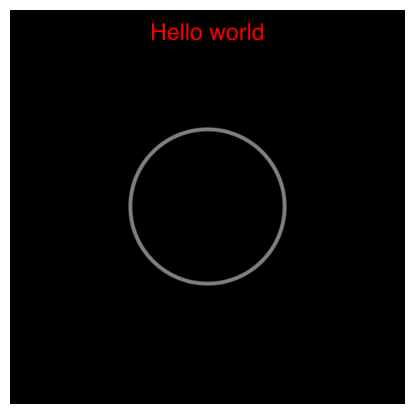
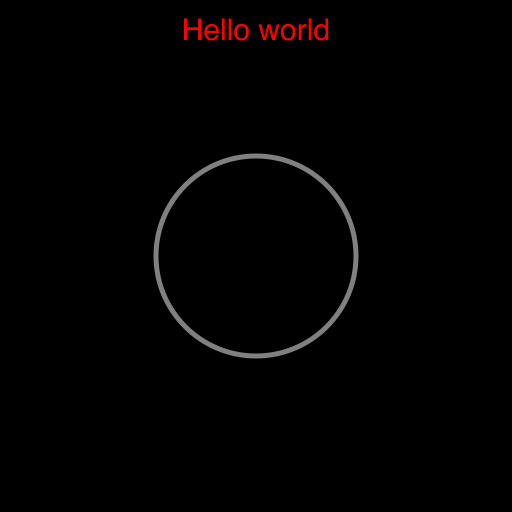
Loading with dialogs

Changed region(s): [[0.0, 0.0, 1.0, 1.0], [0.2899, 0.2899, 0.7246, 0.7246]]

diff --git a/py5canvas/sketch_params.py b/py5canvas/sketch_params.py
@@ -71,6 +71,15 @@ def fetch_params(gui_params):
             params[key] = val
     return params
 
+def filter_params(params):
+    res = {}
+    for key, val in params.items():
+        if isinstance(val, dict):
+            res[key] = filter_params(val)
+        else:
+            if not callable(val):
+                res[key] = val
+    return res
 
 class SketchParams:
     ''' Handle the parameters of a sketch.
@@ -98,7 +107,7 @@ class SketchParams:
         print('Saving parameters to ' + path)
         print(self.params)
         with open(path, 'w') as fp:
-            json.dump(self.params, fp, indent=4, sort_keys=False, cls=encoder)
+            json.dump(filter_params(self.params), fp, indent=4, sort_keys=False, cls=encoder)
 
     def load(self, path='', encoder=NumpyEncoder):
         if not path:
@@ -270,7 +279,10 @@ if imgui is not None:
                         changed = False
                         if param_type == 'int':
                             changed, params[key] = imgui.input_int(name, params[key])
-                        if param_type == 'text':
+                        elif param_type == 'button':
+                            if imgui.button(name):
+                                val()
+                        elif param_type == 'text':
                             buf_length = 1024
                             if 'buf_length' in opts:
                                 buf_length = opts['buf_length']
@@ -278,13 +290,13 @@ if imgui is not None:
                                 changed, params[key] = imgui.input_text_multiline(name, params[key], buf_length)
                             else:
                                 changed, params[key] = imgui.input_text(name, params[key], buf_length)
-                        if param_type == 'selection':
+                        elif param_type == 'selection':
                             changed, params[key] = imgui.combo(name, params[key], opts['selection'])
-                        if param_type == 'float':
+                        elif param_type == 'float':
                             changed, params[key] = imgui.input_float(name, params[key])
-                        if param_type == 'float_slider':
+                        elif param_type == 'float_slider':
                             changed, params[key] = imgui.slider_float(name, params[key], opts['min'], opts['max'])
-                        if param_type == 'int_slider':
+                        elif param_type == 'int_slider':
                             changed, params[key] = imgui.slider_int(name, params[key], opts['min'], opts['max'])
                         elif param_type == 'checkbox':
                             changed, params[key] = imgui.checkbox(name, params[key])
@@ -301,18 +313,43 @@ if imgui is not None:
                         print("Key mismatch for parameter", name)
                         print(e)
 
+        def toolbar(self, sketch):
+            self.sketch = sketch
+            # Top bar
+            imgui.set_next_window_size(sketch.window_width, sketch.toolbar_height)
+            imgui.set_next_window_position(0, 0)
+            imgui.begin("Toolbar", True, (imgui.WINDOW_NO_RESIZE |
+                                            imgui.WINDOW_NO_TITLE_BAR |
+                                            imgui.WINDOW_NO_SAVED_SETTINGS |
+                                            imgui.WINDOW_NO_SCROLLBAR))
+
+            if imgui.button('Load sketch...'):
+                path = sketch.open_file_dialog('py')
+                if path:
+                    sketch.load(path)
+            imgui.same_line()
+            imgui.push_style_color(imgui.COLOR_TEXT, 0.5, 0.5, 0.5)
+            script_name = os.path.basename(sketch.path)
+            imgui.text('Sketch: ' + script_name)
+            imgui.pop_style_color(1)
+            imgui.end()
+
         def from_params(self, sketch):
             self.sketch = sketch
             self.changed = set()
-            imgui.set_next_window_size(self.width, sketch.height)
-            imgui.set_next_window_position(sketch.window_width - self.width, 0)
-            imgui.begin("Parameters", True, imgui.WINDOW_NO_RESIZE | imgui.WINDOW_NO_TITLE_BAR)
-            script_name = os.path.basename(sketch.path)
-            imgui.push_style_color(imgui.COLOR_TEXT, 0.5, 0.5, 0.5)
-            imgui.text('Sketch: ' + script_name)
-            imgui.pop_style_color(1)
-            if sketch.params is not None:
-                self.show_params(sketch.params.params, sketch.params.gui_params)
+
+
+            imgui.set_next_window_size(self.width, sketch.window_height - sketch.toolbar_height)
+            imgui.set_next_window_position(sketch.window_width - self.width, sketch.toolbar_height)
+            imgui.begin("Py5sketch", True, (imgui.WINDOW_NO_RESIZE |
+                                            imgui.WINDOW_NO_TITLE_BAR |
+                                            imgui.WINDOW_NO_SAVED_SETTINGS))
+            imgui.begin_child("Sketch")
+
+            if imgui.collapsing_header("Parameters", None, imgui.TREE_NODE_DEFAULT_OPEN)[0]:
+                if sketch.params is not None:
+                    self.show_params(sketch.params.params, sketch.params.gui_params)
+            imgui.end_child()
             imgui.end()
 
             # imgui.begin("Style editor")

diff --git a/py5canvas/run_sketch.py b/py5canvas/run_sketch.py
@@ -15,6 +15,9 @@ from py5canvas import canvas, sketch_params
 import traceback
 import importlib
 import threading
+import tkinter
+#master = tkinter.Tk()
+#from tkinter import filedialog
 
 # Optionally import imgui
 imgui_loader = importlib.find_loader('imgui')
@@ -29,9 +32,6 @@ if edict_loader is not None:
     from easydict import EasyDict as edict
 else:
     edict = None
-
-args = lambda: None
-args.program = './../examples/basic_animation.py'
 
 
 class perf_timer:
@@ -89,6 +89,7 @@ def wrap_canvas_method(sketch, func):
         return getattr(sketch.canvas, func)(*args, **kwargs)
     return wrapper
 
+
 class Sketch:
     """Contains our canvas and the pyglet window.
     Takes care of window management and copying the canvas data to the appropriate pyglet image"""
@@ -103,7 +104,7 @@ class Sketch:
         self.var_context = {}
         self.params = None
         self.gui = None
-
+        self.toolbar_height = 30
         self.create_canvas(self.width, self.height)
         self.frame_rate(60)
         self.startup_error = False
@@ -118,6 +119,7 @@ class Sketch:
 
         self.watcher = None
         self.path = path
+        self.must_reload = False
 
         self._frame_count = 0
         self._delta_time = 0.0
@@ -167,7 +169,25 @@ class Sketch:
         print('Setting params', self.params)
         return self.params.params
 
-    def create_canvas(self, w, h, canvas_size=None, fullscreen=False):
+    def open_file_dialog(self, exts, title='Open file...'):
+        # See https://github.com/xMGZx/xdialog
+        import xdialog
+        if np.isscalar(exts):
+            exts = [exts]
+        filetypes = [(ext, "*." + ext) for ext in exts]
+        return xdialog.open_file(title, filetypes=filetypes, multiple=False)
+
+    def save_file_dialog(self, exts, title='Open file...'):
+        import xdialog
+        if np.isscalar(exts):
+            exts = [exts]
+        filetypes = [(ext, "*." + ext) for ext in exts]
+        return xdialog.save_file(title, filetypes=filetypes)
+
+    def open_folder_dialog(self, title='Open folder...'):
+        return xdialog.directory(title)
+
+    def _create_canvas(self, w, h, canvas_size=None, fullscreen=False):
 
         self.is_fullscreen = fullscreen
         self.window.set_size(w, h)
@@ -188,12 +208,22 @@ class Sketch:
         buf = (pyglet.gl.GLubyte * len(buf))(*buf)
         self.image = pyglet.image.ImageData(*canvas_size, "BGRA", buf)
 
+    def create_canvas(self, w, h, gui_width=300, fullscreen=False):
+        if imgui is None:
+            self._create_canvas(w, h, fullscreen=fullscreen)
+            return
+        if self.params:
+            self.create_canvas_gui(w, h, gui_width, fullscreen)
+        else:
+            self.gui = sketch_params.SketchGui(gui_width)
+            self._create_canvas(w, h + self.toolbar_height, (w, h), fullscreen)
+
     def create_canvas_gui(self, w, h, width=300, fullscreen=False):
         if imgui is None:
             print('Install ImGui to run UI')
             return self.create_canvas(w, h, fullscreen)
         self.gui = sketch_params.SketchGui(width)
-        self.create_canvas(w + width, h, (w, h), fullscreen)
+        self._create_canvas(w + width, h + self.toolbar_height, (w, h), fullscreen)
 
     def toggle_fullscreen(self):
         self.fullscreen(not self.is_fullscreen)
@@ -206,6 +236,11 @@ class Sketch:
     def set_gui_theme(self, hue):
         if self.gui is not None:
             sketch_params.set_theme(hue)
+
+    def load(self, path):
+        self.gui = None
+        self.path = path
+        self.must_reload = True
 
     def reload(self, var_context):
         print("Reloading sketch code")
@@ -347,14 +382,18 @@ class Sketch:
         # Update timers etc
         self._frame_count += 1
 
-        if self.path and self.watcher.modified(): # Every frame check for file modification
-            print("File modified, reloading")
-            # Reload in global namespace
-            self.reload(self.var_context)
+        if self.path:
+            if self.must_reload or self.watcher.modified(): # Every frame check for file modification
+                print("reloading")
+                # Reload in global namespace
+                self.reload(self.var_context)
+                self.must_reload = False
 
         if imgui is not None:
             if self.gui is not None:
-                self.gui.from_params(self)
+                if self.params:
+                    self.gui.from_params(self)
+                self.gui.toolbar(self)
             # Required for render to work in draw callback
             try:
                 imgui.end_frame()
@@ -513,6 +552,8 @@ def main():
                                 on_mouse_release)
     if sketch.path:
         sketch.reload(locals())
+    else:
+        sketch.var_context = locals()
 
     # on draw event
     @sketch.window.event

diff --git a/examples/screensaver.py b/examples/screensaver.py
@@ -1,14 +1,34 @@
-params = {'width': (100, {'min': 10, 'max': 200}),
-          'height': (100, {'min': 10, 'max': 200}),
-          'color': ([255, 0, 0], {'type':'color'})}
-params = sketch.parameters(params)
+import numpy as np
+
+def new_points():
+    points = np.random.uniform(-200, 200, (10, 2))*2
+    return points
+
+a = new_points()
+b = new_points()
+
+frame_interval = 60
+
 
 def setup():
-    create_canvas_gui(512, 512)
+    create_canvas(800, 600)
 
 def draw():
-    background(0)
+    global a, b # we are modifying these
+
+    background(0, 0, 0, 8) # Clear with alpha will create the "trail effect"
     # Center of screen
-    translate(width/2, height/2)
-    fill(params.color)
-    rectangle(-params.width/2, -params.height/2, params.width, params.height)
+    translate(c.width/2, c.height/2)
+
+    # Every cycle update points
+    if sketch.frame_count%frame_interval == 0:
+        a, b = b, a
+        b = new_points()
+
+    # interpolation step
+    t = (sketch.frame_count%frame_interval)/frame_interval
+    points = a + (b - a)*t
+
+    stroke(255)
+    no_fill()
+    polyline(points)
